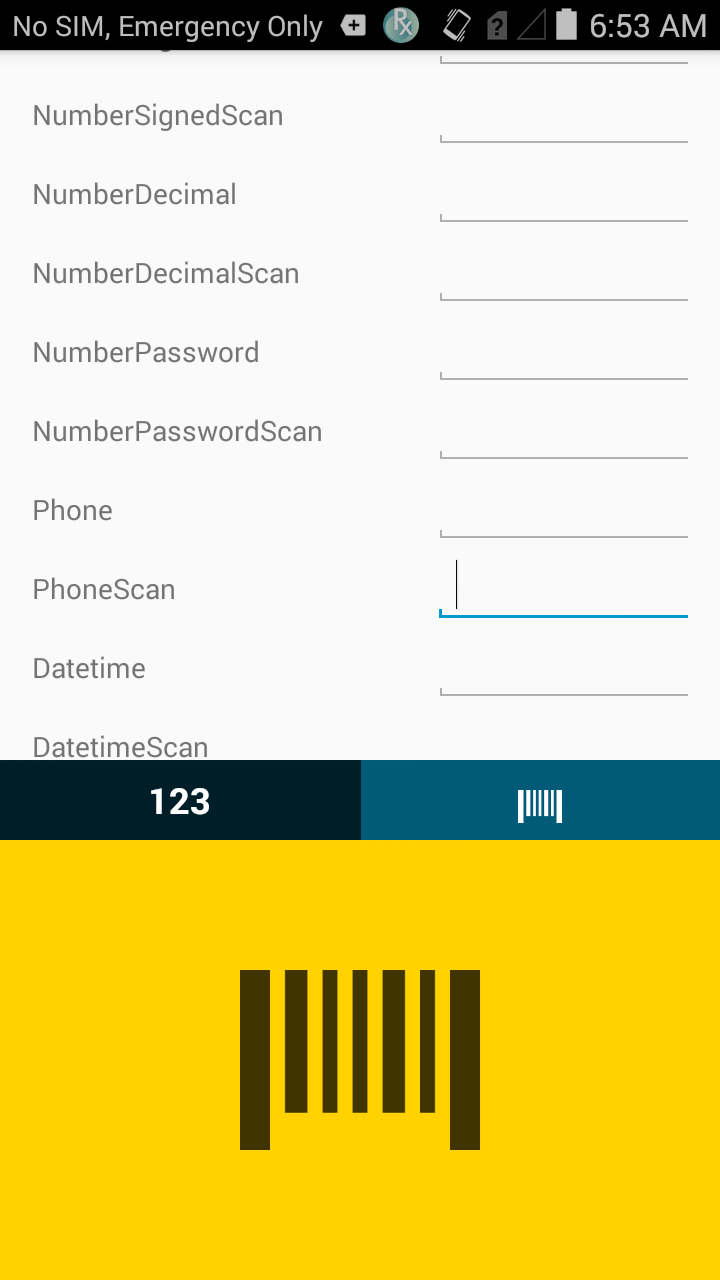
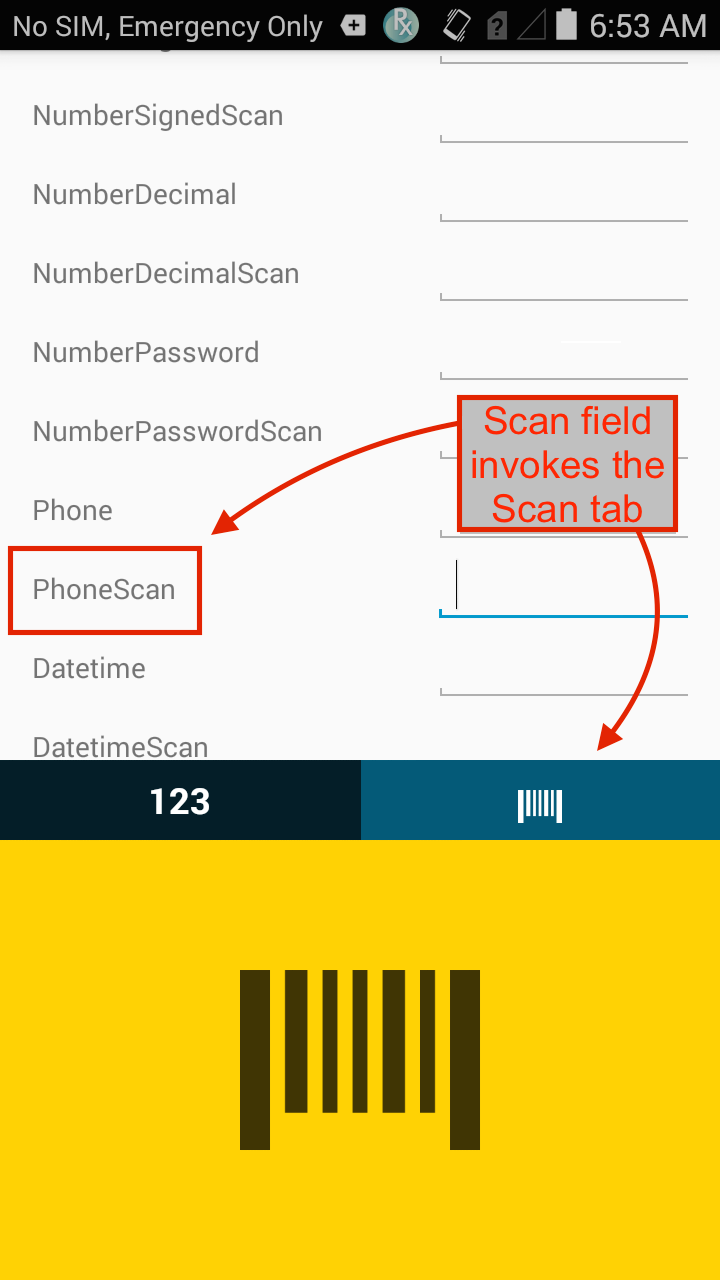
EKB 1.2 new features; dynamic input method docs

diff --git a/src/enterprise-keyboard/1-2/guide/settings/index.md b/src/enterprise-keyboard/1-2/guide/settings/index.md
@@ -85,12 +85,15 @@ The Preferences section controls keypress feedback and other aids to productivit
 
 * <b>Sound on keypress</b> plays a sound when a key is pressed. Volume is configurable in [Advanced settings](#advanced).
 
-<!--
-* <b>Popup on keypress</b> displays a pop-up of the key being pressed. A delay can be added in [Advanced settings](#advanced).
--->
-* <b>Show scan tab</b> displays a tab for switching to the scanner for collecting barcode data. Scanning in Enterprise Keyboard requires [the DataWedge service](#datawedge) to be enabled on the device. 
+* <b>Popup on keypress</b> displays a pop-up of the key being pressed. <!--A delay can be added in [Advanced settings](#advanced).-->
 
-* <b>Voice input key</b> option will appear on GMS-enabled devices only. When checked, will display a key for allowing Enterprise Keyboard to accept spoken input using the mic. 
+* <b>Voice input key</b> displays a key for allowing Enterprise Keyboard to accept spoken input using the mic (on GMS-enabled devices only). 
+
+* <b>Show scan tab</b> displays a tab for switching to the scanner to collect barcode data. Scanning in Enterprise Keyboard requires [the DataWedge service](#datawedge) to be enabled on the device. 
+
+* <b>Flick</b> enables the alternate (long-press) character of a key to be input by "flicking" the key. 
+
+* <b>Numeric (Telephone)</b> layout appears when the numeric keypad is in focus. When disabled, the Calculator layout is used. 
 
 ------
 
@@ -253,6 +256,27 @@ The scan tab in Enterprise Keyboard uses scanning services provided by [DataWedg
 For more information about scanning with Enterprise Keyboard, see [Enterprise Keyboard Setup](../setup). 
 
 Also refer to the [DataWedge User Guide](../../../../) for complete documentation.
+
+------
+
+## Dynamic Input Method 
+**_This feature applies to native apps only_**. 
+
+Enterprise Keyboard 1.2 (and higher) supports programmatic access to the Input Method Editor (IME), which can dynamically change the input method depending on the selected field. For example, when the cursor enters a field intended for barcode data, the scan tab can be automatically invoked in the same way that the keyboard appears when a text fields is in focus. 
+
+**To set the input method as static**: 
+
+* Include the line `android:privateImeOptions=&quot;scan&quot;` in the &lt;EditText&gt; field of the `StaticLayout.xml` file as shown below: 
+
+<img alt="" style="height:350px" src="IME_code_placement.png"/>
+<br>
+
+**To set the input method as dynamic**: 
+
+* Calling the `setPrivateImeOptions()` method with “scan” as the parameter: 
+	* `editTextTest.setPrivateImeOptions(&quot;scan&quot;)`
+
+**This feature works only from within a native app**. 
 
 ------
 

diff --git a/src/enterprise-keyboard/1-2/guide/about/index.md b/src/enterprise-keyboard/1-2/guide/about/index.md
@@ -8,7 +8,12 @@ productversion: '1.2'
 ## Overview
 Enterprise Keyboard is a soft input device that's designed to provide the most productive means possible of inputting data into Zebra devices. Building on the stock Android keyboard, Enterprise Keyboard adds programmable keys, switches quickly between languages and key layouts, and has the ability to scan data directly into an application. 
 
-Enterprise Keyboard 1.1 (and higher) can be activated and configured manually on the device, programmatically through [EMDK for Android](../../../../emdk-for-android) development tools, remotely using [StageNow](../../../../) and the [UI Manager](/mx/uimgr/) service or through a company's own mobile device management (MDM) system (if supported by that system). 
+Enterprise Keyboard 1.1 (and higher) can be configured in the following ways: 
+
+* **Manually** on the device
+* **Programmatically** through [EMDK for Android](../../../../emdk-for-android) development tools
+* **Remotely** using [StageNow](../../../../) and the [UI Manager](/mx/uimgr/) service
+* Remotely through a company's own mobile device management (MDM) system (if supported by that system)
 
 Zebra's keyboard also makes use of the Android Personal Dictionary for spelling suggestions and corrections, and permits customers and partners to populate the device with industry-specific terms to help improve the speed and accuracy of keyboard input. A Personal dictionary can be populated and mass-deployed through Zebra's Mobility Extensions [(MX)](../../../../mx) and [StageNow](../../../../) tools. 
 
